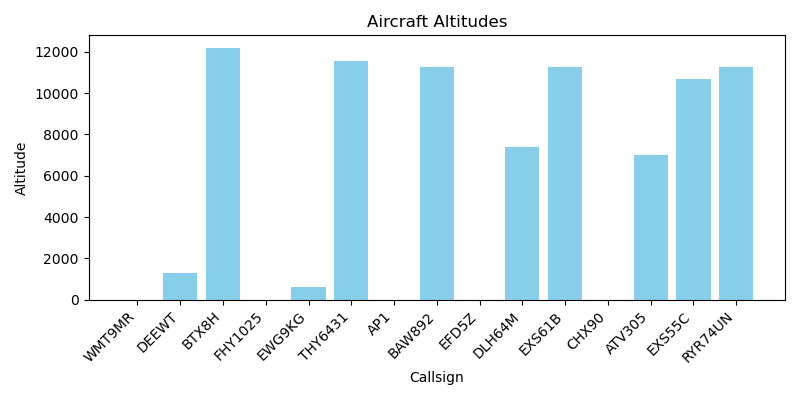
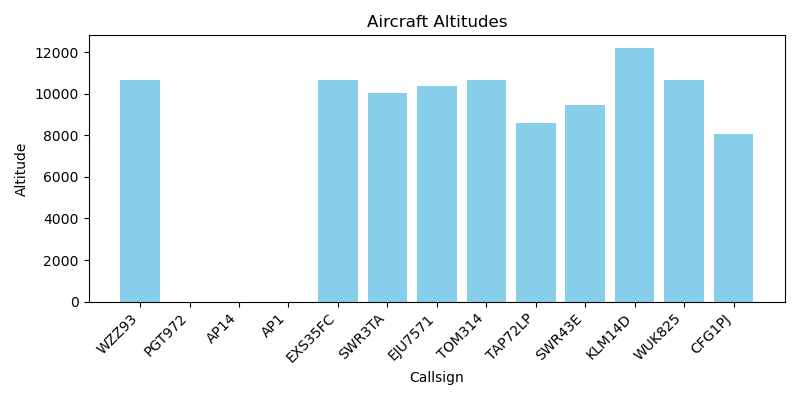
airports fixing

diff --git a/aircraft_explorer/apis.py b/aircraft_explorer/apis.py
@@ -25,7 +25,6 @@ def geocode(city_name: str):
         print(f"[Geocoding Error] {e}")
     return None, None, None
 
-AIRPORTS_CSV_PATH = os.path.join("data", "airports.csv")
 
 def load_airports():
     """Loads airport data from the CSV file into a list of dictionaries."""
